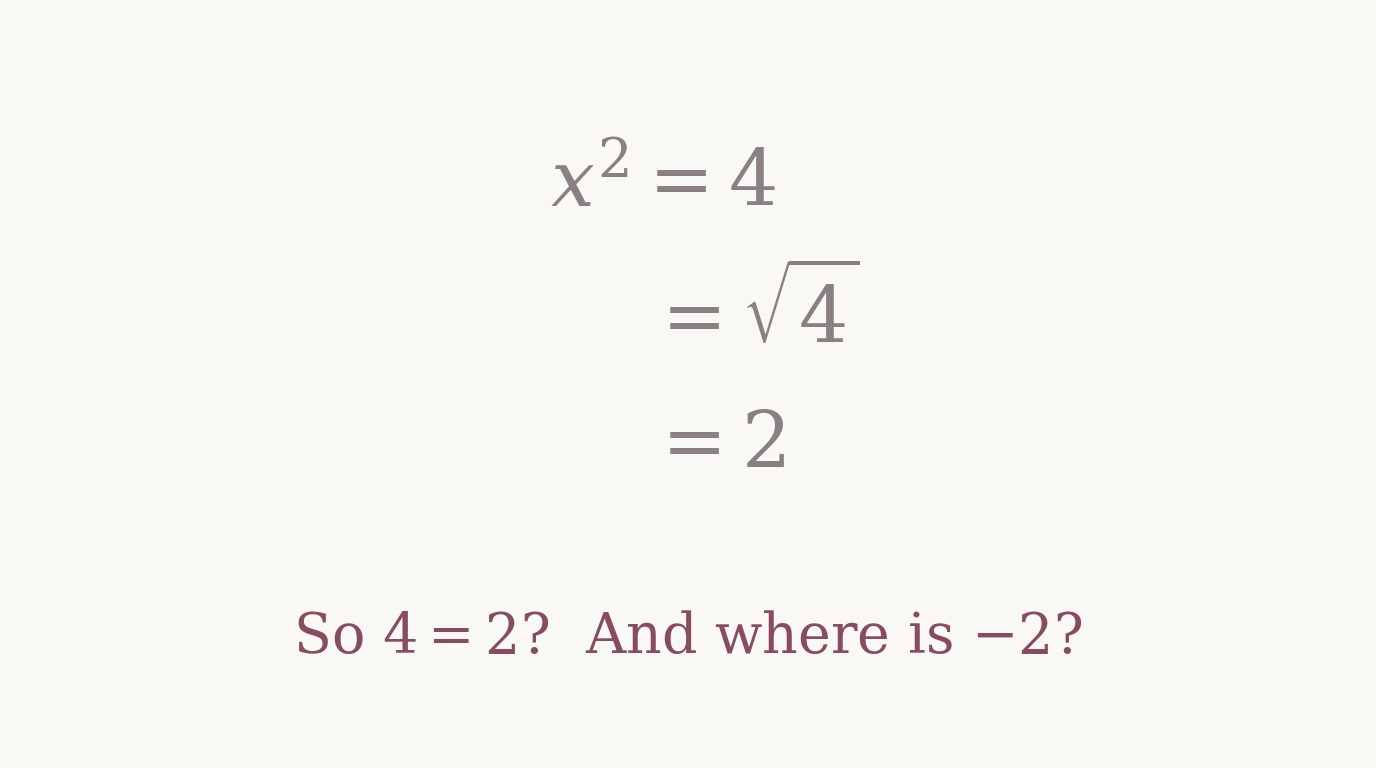
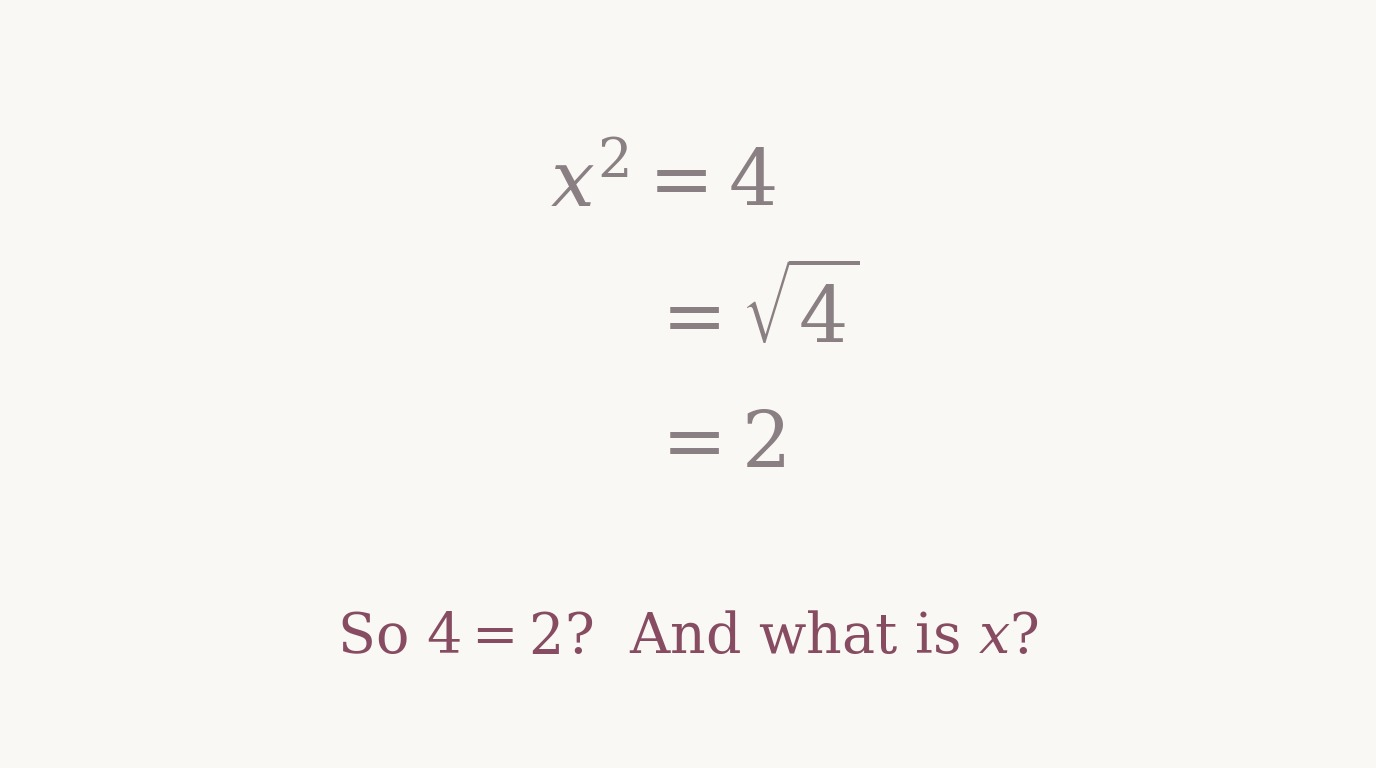
math-writing: reveal cards with consistent two-tests wording, card caption 'And what is x?'

Changed region(s): [[0.2188, 0.7812, 0.7812, 0.875]]

diff --git a/math-writing/four_solutions.html b/math-writing/four_solutions.html
@@ -37,7 +37,7 @@
               </div>
               <h3 class="font-heading text-lg sm:text-xl font-extrabold text-white">Five Solutions, One Perfect</h3>
               <p class="text-xs sm:text-sm text-white/75 leading-relaxed">
-                Five solutions of \(x^2 = 4\). Only one passes both tests, every line a statement and every statement true, and only one would have satisfied my school teacher, Mr B. Guess first, then reveal the corrections: the solution stays as it was handed in, the remarks appear in the margin.
+                Five solutions of \(x^2 = 4\). Only one passes both tests: every line is a statement (its letters introduced, its link to the line before in place), and every statement is true (the link really holds). And only one would have satisfied my school teacher, Mr B. Guess first, then reveal the corrections: the solution stays as it was handed in, the remarks unfold between the lines.
               </p>
             </div>
             <div class="relative z-10 grid grid-cols-1 sm:grid-cols-2 gap-4">
@@ -45,14 +45,12 @@
                 <div class="text-[11px] font-mono font-bold uppercase tracking-wider text-brand-plum mb-3">Solution 1 · scribbled</div>
                 <div class="mw-card" id="mw-card-1">
                   <div class="mw-line"><span>\(x^2 = 4\)</span></div>
-                  <div class="mw-margin"><span class="mw-note">read aloud: 4 = 2?</span></div>
+                  <div class="mw-noteline"><div><span class="mw-note">read aloud: 4 = 2?</span></div></div>
                   <div class="mw-line"><span>\(= \sqrt{4}\)</span></div>
-                  <div class="mw-margin"><span class="mw-note"></span></div>
                   <div class="mw-line"><span>\(= 2\)</span></div>
-                  <div class="mw-margin"><span class="mw-note">and where is −2?</span></div>
-                  <div></div>
-                  <div class="mw-margin"><span class="mw-note">not one line is a statement: nothing to check, only something to guess</span></div>
-                  <div class="mw-full mw-verdict font-bold text-brand-plum text-xs pt-2">✗ No statements at all.</div>
+                  <div class="mw-noteline"><div><span class="mw-note">and where is −2?</span></div></div>
+                  <div class="mw-noteline"><div><span class="mw-note">not one line is a statement: nothing to check, only something to guess</span></div></div>
+                  <div class="mw-noteline"><div><div class="font-bold text-brand-plum text-xs pt-2">✗ No statements at all.</div></div></div>
                 </div>
                 <button type="button" onclick="mwReveal(this)" class="mt-3 px-3 py-1.5 rounded-full bg-brand-terracotta hover:bg-brand-coral text-white text-xs font-semibold transition-colors">Reveal</button>
               </div>
@@ -60,14 +58,12 @@
                 <div class="text-[11px] font-mono font-bold uppercase tracking-wider text-brand-plum mb-3">Solution 2 · square root</div>
                 <div class="mw-card" id="mw-card-2">
                   <div class="mw-line"><span>Let \(x \in \mathbb{R}\). Then:</span></div>
-                  <div class="mw-margin"><span class="mw-note"></span></div>
                   <div class="mw-line"><span>\(x^2 = 4\)</span><span class="mw-why">| \(\sqrt{\;\cdot\;}\)</span></div>
-                  <div class="mw-margin"><span class="mw-note"></span></div>
                   <div class="mw-line"><span>\(\Leftrightarrow\; \sqrt{x^2} = \sqrt{4}\)</span></div>
-                  <div class="mw-margin"><span class="mw-note">careful: √(x²) = |x|, not x</span></div>
+                  <div class="mw-noteline"><div><span class="mw-note">careful: √(x²) = |x|, not x</span></div></div>
                   <div class="mw-line"><span class="mw-bad">\(\Leftrightarrow\; x = 2\)</span></div>
-                  <div class="mw-margin"><span class="mw-note">|x| = 2 ⇔ x = 2 or x = −2. One solution lost: this ⇔ is false.</span></div>
-                  <div class="mw-full mw-verdict font-bold text-brand-plum text-xs pt-2">✗ Every line a statement, but one of them is false.</div>
+                  <div class="mw-noteline"><div><span class="mw-note">|x| = 2 ⇔ x = 2 or x = −2. One solution lost: this ⇔ is false.</span></div></div>
+                  <div class="mw-noteline"><div><div class="font-bold text-brand-plum text-xs pt-2">✗ Every line a statement, but one link is false.</div></div></div>
                 </div>
                 <button type="button" onclick="mwReveal(this)" class="mt-3 px-3 py-1.5 rounded-full bg-brand-terracotta hover:bg-brand-coral text-white text-xs font-semibold transition-colors">Reveal</button>
               </div>
@@ -75,14 +71,12 @@
                 <div class="text-[11px] font-mono font-bold uppercase tracking-wider text-brand-plum mb-3">Solution 3 · which world?</div>
                 <div class="mw-card" id="mw-card-3">
                   <div class="mw-line"><span>\(x^2 = 4\)</span><span class="mw-why">| \(-\,4\)</span></div>
-                  <div class="mw-margin"><span class="mw-note">which x? Introduce it first: Let x ∈ ℝ.</span></div>
-                  <div class="mw-line"><span>\(\Leftrightarrow\; x^2 - 4 = 0\)</span><span class="mw-why">| third binomial formula</span></div>
-                  <div class="mw-margin"><span class="mw-note"></span></div>
+                  <div class="mw-noteline"><div><span class="mw-note">which x? Introduce it first: Let x ∈ ℝ.</span></div></div>
+                  <div class="mw-line"><span>\(\Leftrightarrow\; x^2 - 4 = 0\)</span><span class="mw-why">| 3rd binomial formula</span></div>
                   <div class="mw-line"><span>\(\Leftrightarrow\; (x-2)(x+2) = 0\)</span><span class="mw-why">| zero-product property</span></div>
-                  <div class="mw-margin"><span class="mw-note"></span></div>
                   <div class="mw-line"><span>\(\Leftrightarrow\; x = 2\) or \(x = -2\)</span></div>
-                  <div class="mw-margin"><span class="mw-note">for x ∈ ℕ the answer would be x = 2 only</span></div>
-                  <div class="mw-full mw-verdict font-bold text-brand-plum text-xs pt-2">✗ Correct steps, but no statement until x is introduced.</div>
+                  <div class="mw-noteline"><div><span class="mw-note">for x ∈ ℕ the answer would be x = 2 only</span></div></div>
+                  <div class="mw-noteline"><div><div class="font-bold text-brand-plum text-xs pt-2">✗ Correct steps, but no statement until x is introduced.</div></div></div>
                 </div>
                 <button type="button" onclick="mwReveal(this)" class="mt-3 px-3 py-1.5 rounded-full bg-brand-terracotta hover:bg-brand-coral text-white text-xs font-semibold transition-colors">Reveal</button>
               </div>
@@ -90,18 +84,12 @@
                 <div class="text-[11px] font-mono font-bold uppercase tracking-wider text-brand-plum mb-3">Solution 4 · written</div>
                 <div class="mw-card" id="mw-card-4">
                   <div class="mw-line"><span>Let \(x \in \mathbb{R}\). Then:</span></div>
-                  <div class="mw-margin"><span class="mw-note"></span></div>
                   <div class="mw-line"><span>\(x^2 = 4\)</span><span class="mw-why">| \(-\,4\)</span></div>
-                  <div class="mw-margin"><span class="mw-note"></span></div>
-                  <div class="mw-line"><span>\(\Leftrightarrow\; x^2 - 4 = 0\)</span><span class="mw-why">| third binomial formula</span></div>
-                  <div class="mw-margin"><span class="mw-note"></span></div>
+                  <div class="mw-line"><span>\(\Leftrightarrow\; x^2 - 4 = 0\)</span><span class="mw-why">| 3rd binomial formula</span></div>
                   <div class="mw-line"><span>\(\Leftrightarrow\; (x-2)(x+2) = 0\)</span><span class="mw-why">| zero-product property</span></div>
-                  <div class="mw-margin"><span class="mw-note"></span></div>
                   <div class="mw-line"><span>\(\Leftrightarrow\; x = 2\) or \(x = -2\)</span></div>
-                  <div class="mw-margin"><span class="mw-note">Mr B.: and the full stop at the end?</span></div>
-                  <div></div>
-                  <div class="mw-margin"><span class="mw-note ok">✓ every line a statement, every statement true</span></div>
-                  <div class="mw-full mw-verdict font-bold text-brand-terracotta text-xs pt-2">✓ Passes both tests. One thing left for the bonus level.</div>
+                  <div class="mw-noteline"><div><span class="mw-note ok">✓ every line a statement, every link holds</span></div></div>
+                  <div class="mw-noteline"><div><div class="font-bold text-brand-terracotta text-xs pt-2">✓ Passes both tests. One thing left for the bonus level.</div></div></div>
                 </div>
                 <button type="button" onclick="mwReveal(this)" class="mt-3 px-3 py-1.5 rounded-full bg-brand-terracotta hover:bg-brand-coral text-white text-xs font-semibold transition-colors">Reveal</button>
               </div>
@@ -109,16 +97,12 @@
                 <div class="text-[11px] font-mono font-bold uppercase tracking-wider text-brand-plum mb-3">Bonus level · for my school teacher, Mr B.</div>
                 <div class="mw-card" id="mw-card-5">
                   <div class="mw-line"><span>Let \(x \in \mathbb{R}\). Then:</span></div>
-                  <div class="mw-margin"><span class="mw-note"></span></div>
                   <div class="mw-line"><span>\(x^2 = 4\)</span><span class="mw-why">| \(-\,4\)</span></div>
-                  <div class="mw-margin"><span class="mw-note"></span></div>
-                  <div class="mw-line"><span>\(\Leftrightarrow\; x^2 - 4 = 0\)</span><span class="mw-why">| third binomial formula</span></div>
-                  <div class="mw-margin"><span class="mw-note"></span></div>
+                  <div class="mw-line"><span>\(\Leftrightarrow\; x^2 - 4 = 0\)</span><span class="mw-why">| 3rd binomial formula</span></div>
                   <div class="mw-line"><span>\(\Leftrightarrow\; (x-2)(x+2) = 0\)</span><span class="mw-why">| zero-product property</span></div>
-                  <div class="mw-margin"><span class="mw-note"></span></div>
                   <div class="mw-line"><span>\(\Leftrightarrow\; x = 2\) or \(x = -2.\)</span></div>
-                  <div class="mw-margin"><span class="mw-note ok">✓ full stop. A formula is part of the sentence.</span></div>
-                  <div class="mw-full mw-verdict font-bold text-brand-terracotta text-xs pt-2">✓ Nothing left to mark.</div>
+                  <div class="mw-noteline"><div><span class="mw-note ok">✓ full stop. A formula is part of the sentence.</span></div></div>
+                  <div class="mw-noteline"><div><div class="font-bold text-brand-terracotta text-xs pt-2">✓ Nothing left to mark for Mr B.</div></div></div>
                 </div>
                 <button type="button" onclick="mwReveal(this)" class="mt-3 px-3 py-1.5 rounded-full bg-brand-terracotta hover:bg-brand-coral text-white text-xs font-semibold transition-colors">Reveal</button>
               </div>

diff --git a/math-writing/math_writing_card.py b/math-writing/math_writing_card.py
@@ -17,7 +17,7 @@ NL = chr(10)
 mode = sys.argv[2] if len(sys.argv) > 2 else 'card'
 out = sys.argv[1]
 
-CAPTION_LEFT = NL.join(['So $4 = 2$?  And where is $-2$?', 'There is nothing to check,', 'only something to guess.'])
+CAPTION_LEFT = NL.join(['So $4 = 2$?  And what is $x$?', 'There is nothing to check,', 'only something to guess.'])
 CAPTION_RIGHT = NL.join(['Every line is a statement', 'you can check.'])
 SCRIBBLED = [(r'$x^2 = 4$', 0.19), (r'$= \sqrt{4}$', 0.24), (r'$= 2$', 0.24)]
 WRITTEN = [r'Let $x \in \mathbb{R}$. Then:',
@@ -63,7 +63,7 @@ if mode == 'card':
     left = [(r'$x^2 = 4$', 0.40), (r'$= \sqrt{4}$', 0.47), (r'$= 2$', 0.47)]
     for i, (t, xf) in enumerate(left):
         ax.text(W * xf, H * 0.76 - i * 0.17 * H, t, ha='left', va='center', fontsize=56, color=MUTED, family='serif')
-    ax.text(W * 0.5, H * 0.17, 'So $4 = 2$?  And where is $-2$?', ha='center', va='center', fontsize=40,
+    ax.text(W * 0.5, H * 0.17, 'So $4 = 2$?  And what is $x$?', ha='center', va='center', fontsize=40,
             linespacing=1.3, family='serif', color=PLUM)
     fig.savefig(out, dpi=100, facecolor=IVORY, pil_kwargs={'quality': 92})
 
